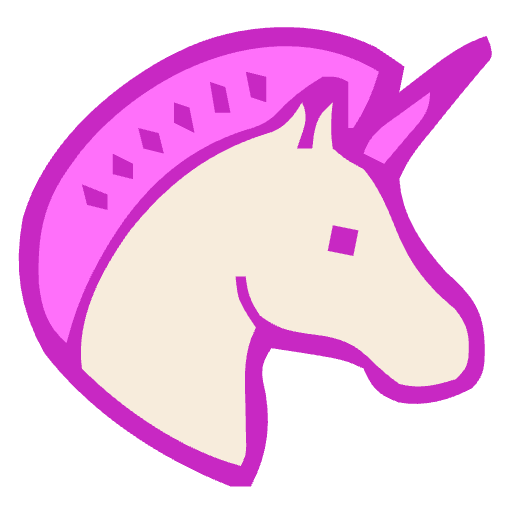
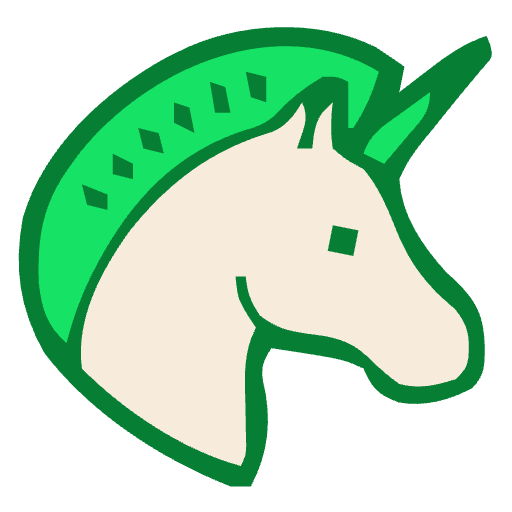
.

Changed region(s): [[0.0312, 0.0312, 0.9688, 0.9688], [0.625, 0.4375, 0.7188, 0.5]]

diff --git a/index.html b/index.html
@@ -5,7 +5,7 @@
   <meta name="viewport" content="width=device-width, initial-scale=1.0">
   <meta name="theme-color" content="#120204">
   <link rel="icon" href="assets/favicon.ico">
-  <link rel="icon" type="image/svg+xml" href="assets/favicon_pink.svg">
+  <link rel="icon" type="image/svg+xml" href="assets/favicon.svg">
   <link rel="icon" sizes="96x96" type="image/png" href="assets/favicon-96x96.png">
   <link rel="apple-touch-icon" href="assets/apple-touch-icon.png">
   <link rel="manifest" href="assets/manifest.json">
@@ -102,7 +102,7 @@
 </head>
 <body>
   <div class="wrap">
-    <h1>Runicore — статус сети</h1>
+    <h1>Мониторинг сети Runicore</h1>
     <p class="sub">Нажмите на сервис — откроется страница со статистикой.</p>
     <div class="banner ok" id="banner">⏳ Загрузка…</div>
     <div class="updated" id="updated"></div>

diff --git a/site.html b/site.html
@@ -6,7 +6,7 @@
   <meta name="theme-color" content="#120204">
   <meta name="robots" content="noindex, nofollow">
   <link rel="icon" href="assets/favicon.ico">
-  <link rel="icon" type="image/svg+xml" href="assets/favicon_pink.svg">
+  <link rel="icon" type="image/svg+xml" href="assets/favicon.svg">
   <link rel="icon" sizes="96x96" type="image/png" href="assets/favicon-96x96.png">
   <link rel="apple-touch-icon" href="assets/apple-touch-icon.png">
   <link rel="manifest" href="assets/manifest.json">
